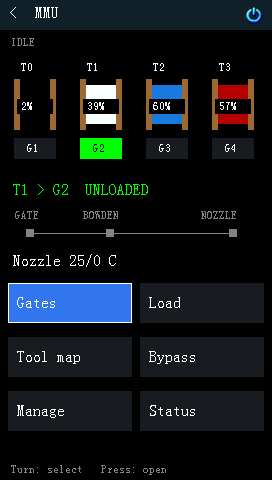
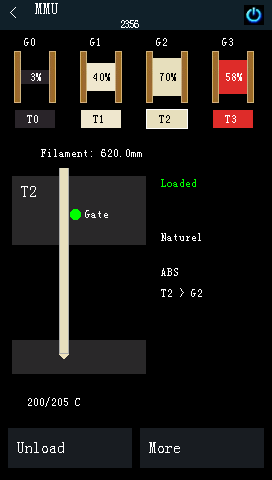
docs: update MMU controls and live filament guide

diff --git a/docs/mmu-guide_TR.md b/docs/mmu-guide_TR.md
@@ -12,13 +12,15 @@ Happy Hare MMU yapılandırılmışsa **Home → MMU** seçin. Ana ekran kanal r
   <img src="assets/screens/mmu-gate-details.png" width="240" alt="Kanal işlemleri">
 </p>
 
-Seçmek için çevirin; açmak için basın. Kanallara veya ayrıntılara göz atmak filament hareketi yapmaz. **G0, Happy Hare kanal 0'dır**; kanallar ve mantıksal takımlar 0 tabanlı numaralandırılır. `T*`, birden fazla takımın o kanalı paylaştığını gösterir.
+Seçmek için çevirin; çalıştırmak için basın. Filament değiştirmek için renkli **T0, T1, …** düğmesini seçin: Happy Hare mevcut takımı boşaltıp seçtiğiniz takımı otomatik yükler. Her makaranın üstündeki kanal gerçek eşleşmesini gösterir; birkaç takım aynı kanalı kullanabilir. Dörtten fazla takım, çevirirken gruplar halinde görünür. **G0, Happy Hare kanal 0'dır**.
 
-İşlemler hedefi gösteren onay açar; **başlangıçta Cancel seçilidir**. Normal hareket ve düzenlemeler baskı/duraklama dışında boşta MMU gerektirir. Desteklenmeyen seçenekler gizlenir; yazıcı durumu meşgul, bilinmiyor veya uygun değilse işlemler kilitlenebilir. Başarısız/doğrulanmamış işlemi tekrarlamadan önce gerçek yazıcıyı kontrol edin.
+Dikey şema filamentin yüklenmesini ve geri çekilmesini takip eder. Filament algılandığında Gate dairesi yeşil dolar. Artık malzeme kaldığı sürece nozzle eski filament rengini korur; purge sırasında küçük bir filament çıkışı animasyonu görünür ve renk Happy Hare'in bildirdiği durumu takip eder. MMU ekranında nozzle sıcaklığı gösterilir; genel yazıcı bilgileri ana ekranda kalır.
+
+Genel görünümdeki takım ve **Load/Unload** düğmeleri doğrudan çalışır ve şema ekranda kalır. **More**; kanalları, eşleştirmeyi, bypass'ı, yönetimi ve ayrıntılı durumu açar. Bu sayfalardaki işlemler onay açar; **başlangıçta Cancel seçilidir**. Normal hareket ve düzenlemeler baskı/duraklama dışında boşta MMU gerektirir. Desteklenmeyen seçenekler gizlenir; yazıcı durumu meşgul, bilinmiyor veya uygun değilse işlemler kilitlenebilir. Başarısız/doğrulanmamış işlemi tekrarlamadan önce gerçek yazıcıyı kontrol edin.
 
 ## Kanallar ve yükleme
 
-**MMU → Gates → [kanal]** açın:
+**MMU → More → Gates → [kanal]** açın:
 
 | İşlem | Kullanım |
 |---|---|
@@ -41,7 +43,7 @@ Atama yapılandırılmış Spoolman moduna bağlıdır: bilinen `off`, `readonly
 
 ## Takım eşlemesi
 
-**MMU → Tool map** açın. Takımı seçip basın, kanalına çevirin ve kabul etmek için basın. Diğer takımlar için tekrarlayın; ardından **Save** seçip onaylayın veya taslağı silmek için **Cancel** seçin. Birden fazla takım aynı kanalı paylaşabilir.
+**MMU → More → Tool map** açın. Takımı seçip basın, kanalına çevirin ve kabul etmek için basın. Diğer takımlar için tekrarlayın; ardından **Save** seçip onaylayın veya taslağı silmek için **Cancel** seçin. Birden fazla takım aynı kanalı paylaşabilir.
 
 Düzenlemeyi boşta ve baskı/duraklama dışında yapın. Düzenleme sırasında web arayüzünden eşleme değişirse devam etmeden önce düzenleyiciyi yeniden açın.
 
@@ -58,7 +60,7 @@ Değişiklikleri boşta ve baskı/duraklama dışında yapın. Eşleşen metadat
 
 ## Bypass
 
-**MMU → Bypass** açın. Önce **Unload current gate**, ardından **Select bypass** kullanın. Yalnız extruder filament yolu için **Load extruder** ve **Unload extruder** kullanın. Her işlemi onaylayın. Bypass seçimi boşaltılmış filament gerektirir.
+**MMU → More → Bypass** açın. Önce **Unload current gate**, ardından **Select bypass** kullanın. Yalnız extruder filament yolu için **Load extruder** ve **Unload extruder** kullanın. Her işlemi onaylayın. Bypass seçimi boşaltılmış filament gerektirir.
 
 ## Kurtarma ve durum
 
@@ -67,7 +69,7 @@ Değişiklikleri boşta ve baskı/duraklama dışında yapın. Eşleşen metadat
   <img src="assets/screens/mmu-status.png" width="240" alt="MMU durumu ve sensörler">
 </p>
 
-Nedeni bildirilen MMU hata duraklaması kurtarmayı otomatik açar. **MMU → Manage → Recover state** yolunu da kullanabilirsiniz.
+Nedeni bildirilen MMU hata duraklaması kurtarmayı otomatik açar. **MMU → More → Manage → Recover state** yolunu da kullanabilirsiniz. Genel görünümdeki işlem başarısız olursa ana düğme **Recover** olur; sonuç ve kurtarma seçeneklerini açar.
 
 1. Hatayı okuyun ve fiziksel filament sorununu düzeltin.
 2. Kurtarmayı veya gerçek kanal/takım/filament durumunu bildirmek için manuel durum düzenleyicisini kullanın. Manuel Apply durum bildirir; filament yüklemez veya boşaltmaz.

diff --git a/docs/mmu-guide.md b/docs/mmu-guide.md
@@ -12,13 +12,15 @@ With a configured Happy Hare MMU, select **Home → MMU**. Home also shows gate 
   <img src="assets/screens/mmu-gate-details.png" width="240" alt="Gate actions">
 </p>
 
-Rotate to select; press to open. Browsing gates or details does not move filament. **G0 is Happy Hare gate 0**; gates and logical tools both use zero-based numbering. `T*` means several tools share that gate.
+Rotate to select; press to activate. Select a colored **T0, T1, …** button to change filament: Happy Hare unloads the current tool and loads the chosen tool automatically. The gate above each spool shows its actual mapping; several tools can use the same gate. More than four tools appear in groups as you rotate. **G0 is Happy Hare gate 0**.
 
-Actions open a confirmation showing the target, with **Cancel initially selected**. Routine movement and edits require an idle MMU outside printing/pauses. Unsupported options are hidden; actions may be locked when the printer state is busy, unknown or unsuitable. Check the actual printer before retrying a failed/unconfirmed operation.
+The vertical diagram follows filament loading and withdrawal. The Gate circle fills green when filament is detected. The nozzle retains the previous filament color while residual material remains; purge has a small extrusion animation and follows Happy Hare's reported color. The MMU screen shows nozzle temperature; general printer information remains on Home.
+
+The overview's tool and **Load/Unload** buttons start immediately and keep the diagram visible. **More** opens gates, mapping, bypass, management and detailed status. Actions on those pages open a confirmation with **Cancel initially selected**. Routine movement and edits require an idle MMU outside printing/pauses. Unsupported options are hidden; actions may be locked when the printer state is busy, unknown or unsuitable. Check the actual printer before retrying a failed/unconfirmed operation.
 
 ## Gates and loading
 
-Open **MMU → Gates → [gate]**:
+Open **MMU → More → Gates → [gate]**:
 
 | Action | Use |
 |---|---|
@@ -41,7 +43,7 @@ Assignment depends on the configured Spoolman mode: known `off`, `readonly` and 
 
 ## Tool map
 
-Open **MMU → Tool map**. Select a tool, press, rotate to its gate and press to accept. Repeat for other tools, then **Save** and confirm, or **Cancel** to discard the draft. Several tools can share one gate.
+Open **MMU → More → Tool map**. Select a tool, press, rotate to its gate and press to accept. Repeat for other tools, then **Save** and confirm, or **Cancel** to discard the draft. Several tools can share one gate.
 
 Make edits while idle and outside printing/pauses. If the mapping changes from the web UI during editing, reopen the editor before continuing.
 
@@ -58,7 +60,7 @@ Make changes while idle and outside printing/pauses. Matching metadata is a guid
 
 ## Bypass
 
-Open **MMU → Bypass**. First **Unload current gate**, then **Select bypass**. Use **Load extruder** and **Unload extruder** for the extruder-only filament path. Confirm each operation. Bypass selection requires unloaded filament.
+Open **MMU → More → Bypass**. First **Unload current gate**, then **Select bypass**. Use **Load extruder** and **Unload extruder** for the extruder-only filament path. Confirm each operation. Bypass selection requires unloaded filament.
 
 ## Recovery and status
 
@@ -67,7 +69,7 @@ Open **MMU → Bypass**. First **Unload current gate**, then **Select bypass**. 
   <img src="assets/screens/mmu-status.png" width="240" alt="MMU status and sensors">
 </p>
 
-An MMU error pause with a reported reason opens recovery automatically. You can also use **MMU → Manage → Recover state**.
+An MMU error pause with a reported reason opens recovery automatically. You can also use **MMU → More → Manage → Recover state**. A failed overview operation replaces its main action with **Recover**, opening the result and recovery options.
 
 1. Read the error and fix the physical filament problem.
 2. Use recovery, or the manual state editor to report the actual gate/tool/filament state. Manual Apply reports state; it does not load or unload filament.

diff --git a/README_TR.md b/README_TR.md
@@ -29,7 +29,7 @@ Web arayüzünü açmadan baskı dosyalarına göz atın, modeli önizleyin, yaz
 | Baskıyı yönetmek | İlerleme ve süre, Pause/Resume, Stop, hız, sıcaklık, fan, çalışma zamanı Z offset ve akış takibi |
 | Yazıcıyı hazırlamak | Home, motorları bırakma, XYZ/extruder hareketi, Live jog, ön ısıtma presetleri ve soğutma |
 | Tablayı kalibre etmek | Dört köşe vida ayarı, probe offset kalibrasyonu, bed mesh ölçümü ve kayıtlı mesh görüntüleme |
-| MMU yönetmek | Happy Hare kanalları, yükleme/boşaltma, bypass, takım eşlemesi, EndlessSpool, kurtarma, bakım, LED'ler ve çoklu ünite |
+| MMU yönetmek | Doğrudan takım değiştirme, canlı filament yolu ve purge gösterimi, Happy Hare kanalları, yükleme/boşaltma, bypass, takım eşlemesi, EndlessSpool, kurtarma, bakım, LED'ler ve çoklu ünite |
 | Filamenti incelemek | Kanal malzemesi/rengi, makara ataması ve mevcutsa Spoolman kalan yüzdesi |
 | Ekranı ayarlamak | Güç döngüsünde korunan parlaklık, boşta kısma süresi ve kısılmış parlaklık |
 | Işık ve gücü yönetmek | PWM kabin ışığı, encoder basılı tutarak güç açma ve onaylı güç kapatma |

diff --git a/README.md b/README.md
@@ -29,7 +29,7 @@ Browse prints, preview a model, adjust the printer, level the bed and manage a H
 | Manage a print | Progress and time, Pause/Resume, Stop, speed, temperature, fan, runtime Z offset and flow monitoring |
 | Prepare the printer | Homing, stepper release, XYZ/extruder movement, Live jog, preheat presets and cooldown |
 | Calibrate the bed | Four-corner screw adjustment, probe-offset calibration, bed mesh measurement and saved mesh viewing |
-| Manage an MMU | Happy Hare gates, load/unload, bypass, tool mapping, EndlessSpool, recovery, maintenance, LEDs and multiple units |
+| Manage an MMU | Direct tool changes, live filament path and purge display, Happy Hare gates, load/unload, bypass, tool mapping, EndlessSpool, recovery, maintenance, LEDs and multiple units |
 | Inspect filament | Gate material/color, spool assignment and Spoolman remaining percentage when available |
 | Adjust the display | Brightness, idle dimming time and dimmed brightness, retained across power cycles |
 | Control lighting and power | PWM case light, encoder hold to power on and a power-off confirmation |
